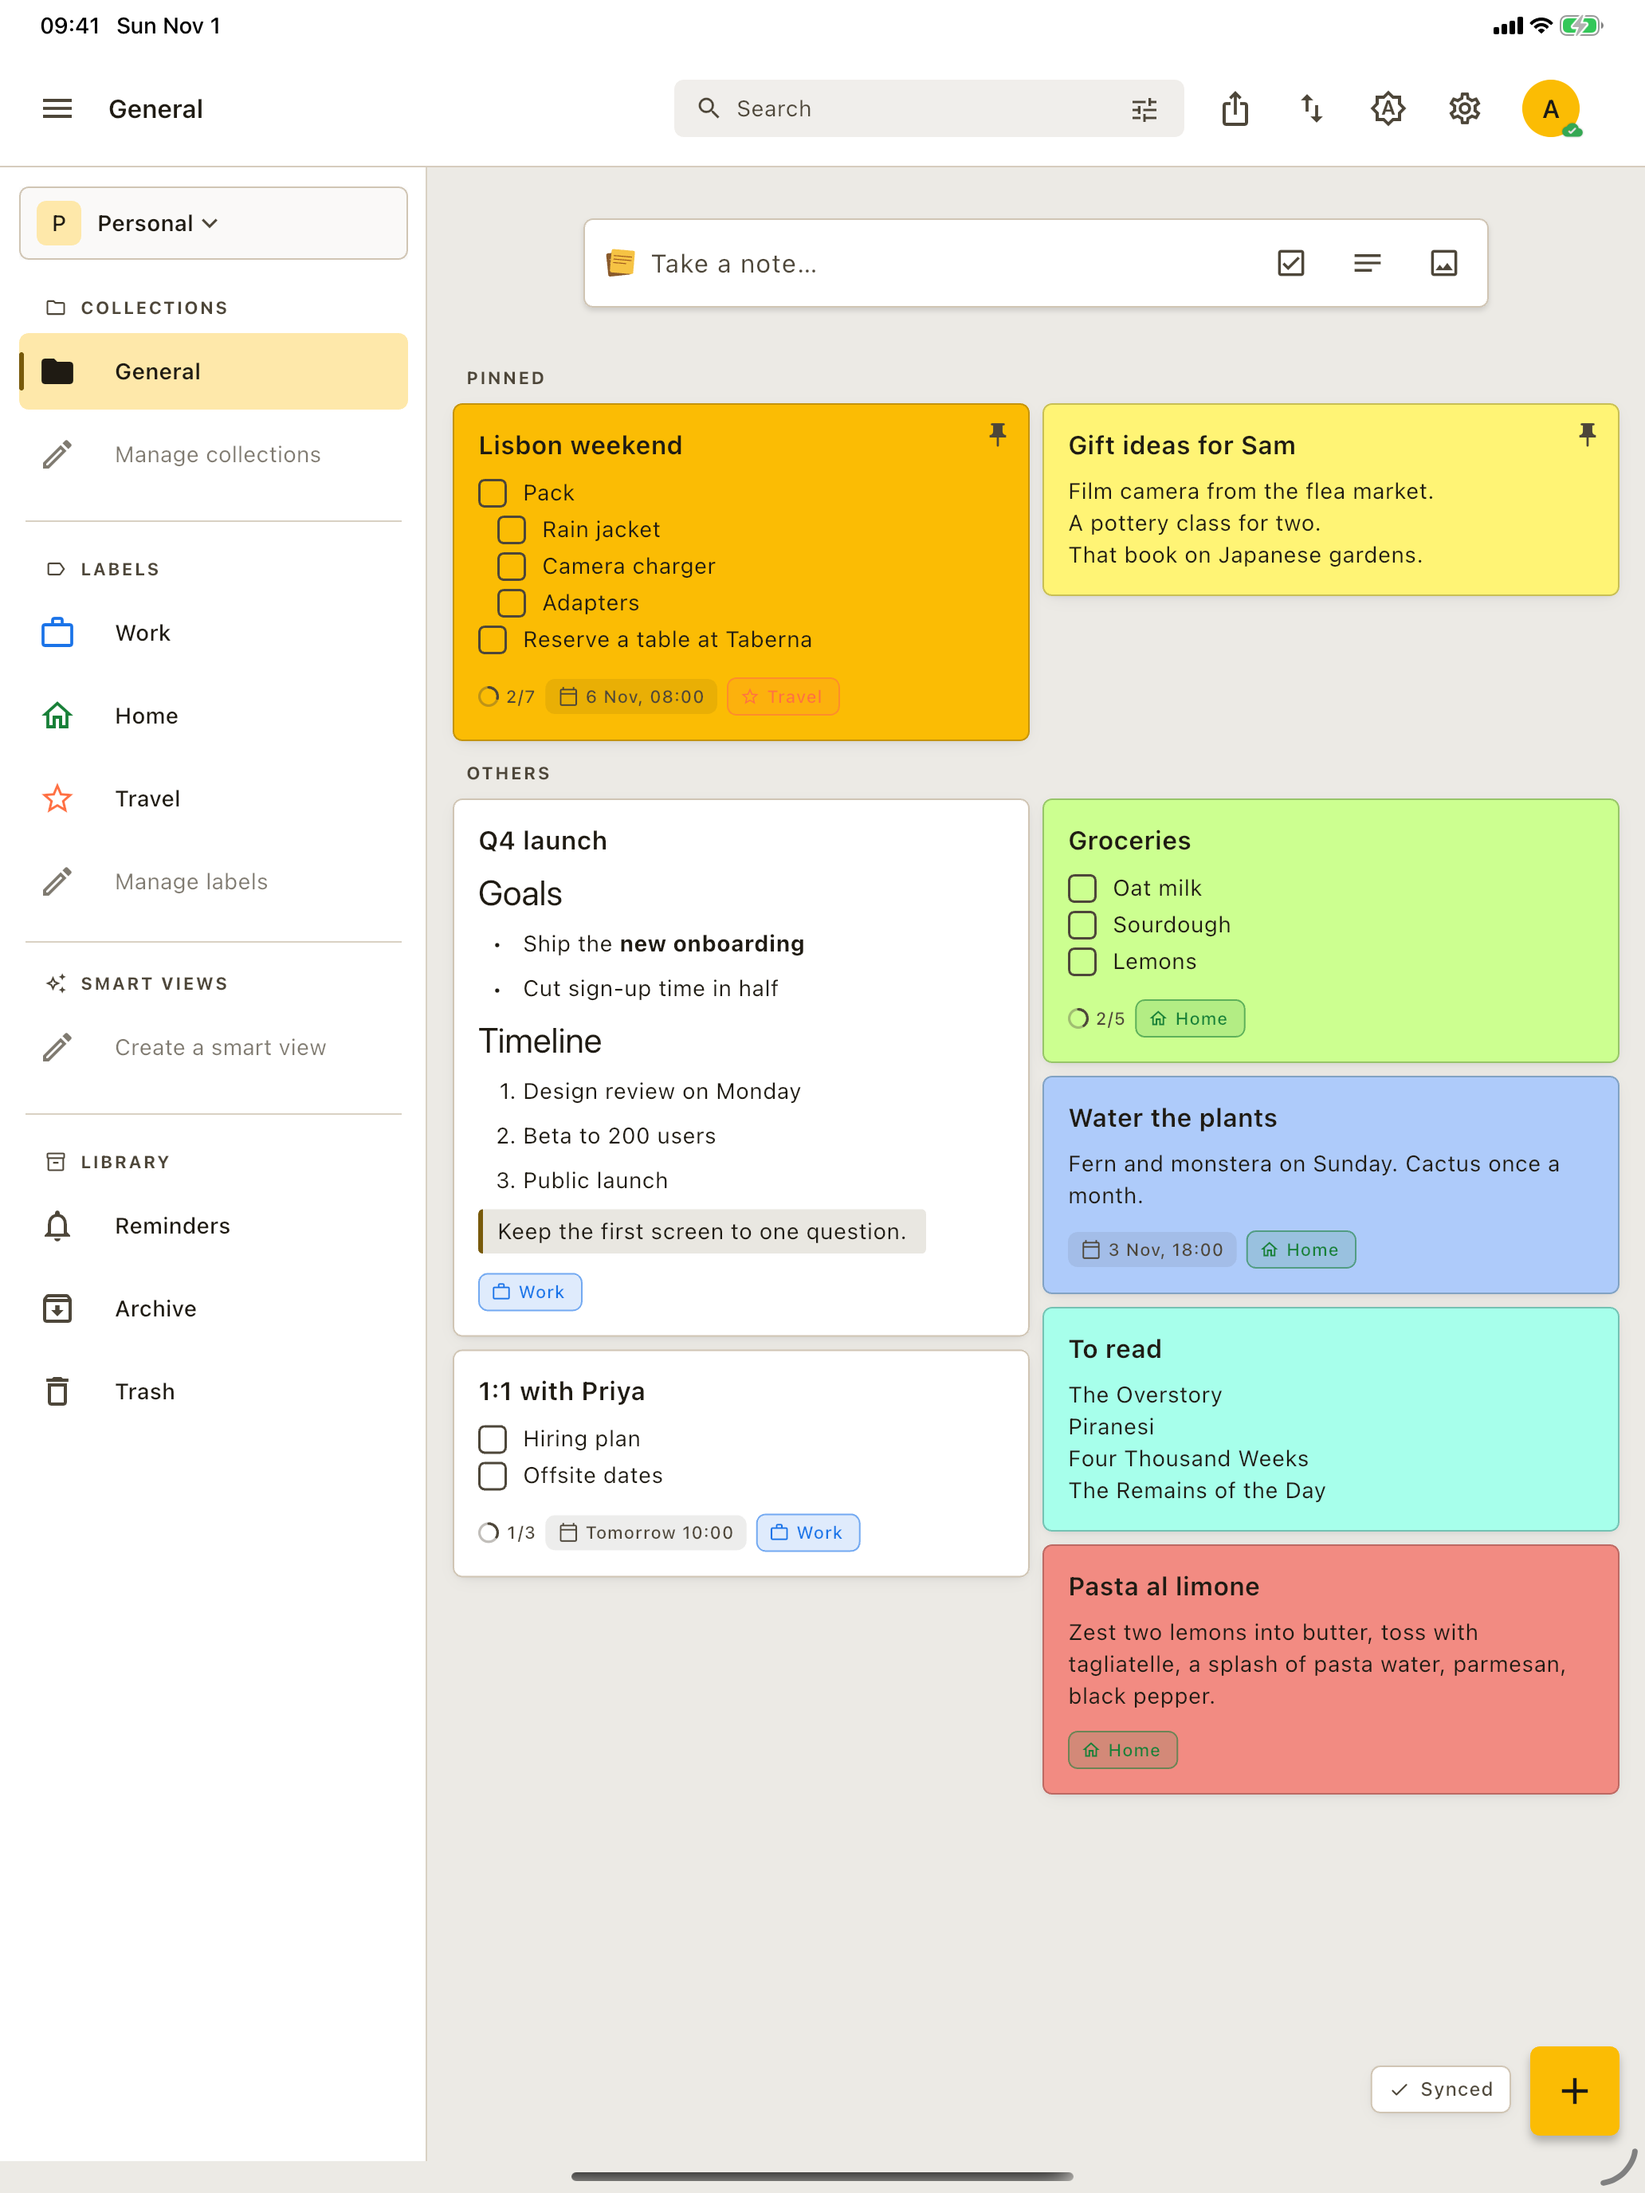
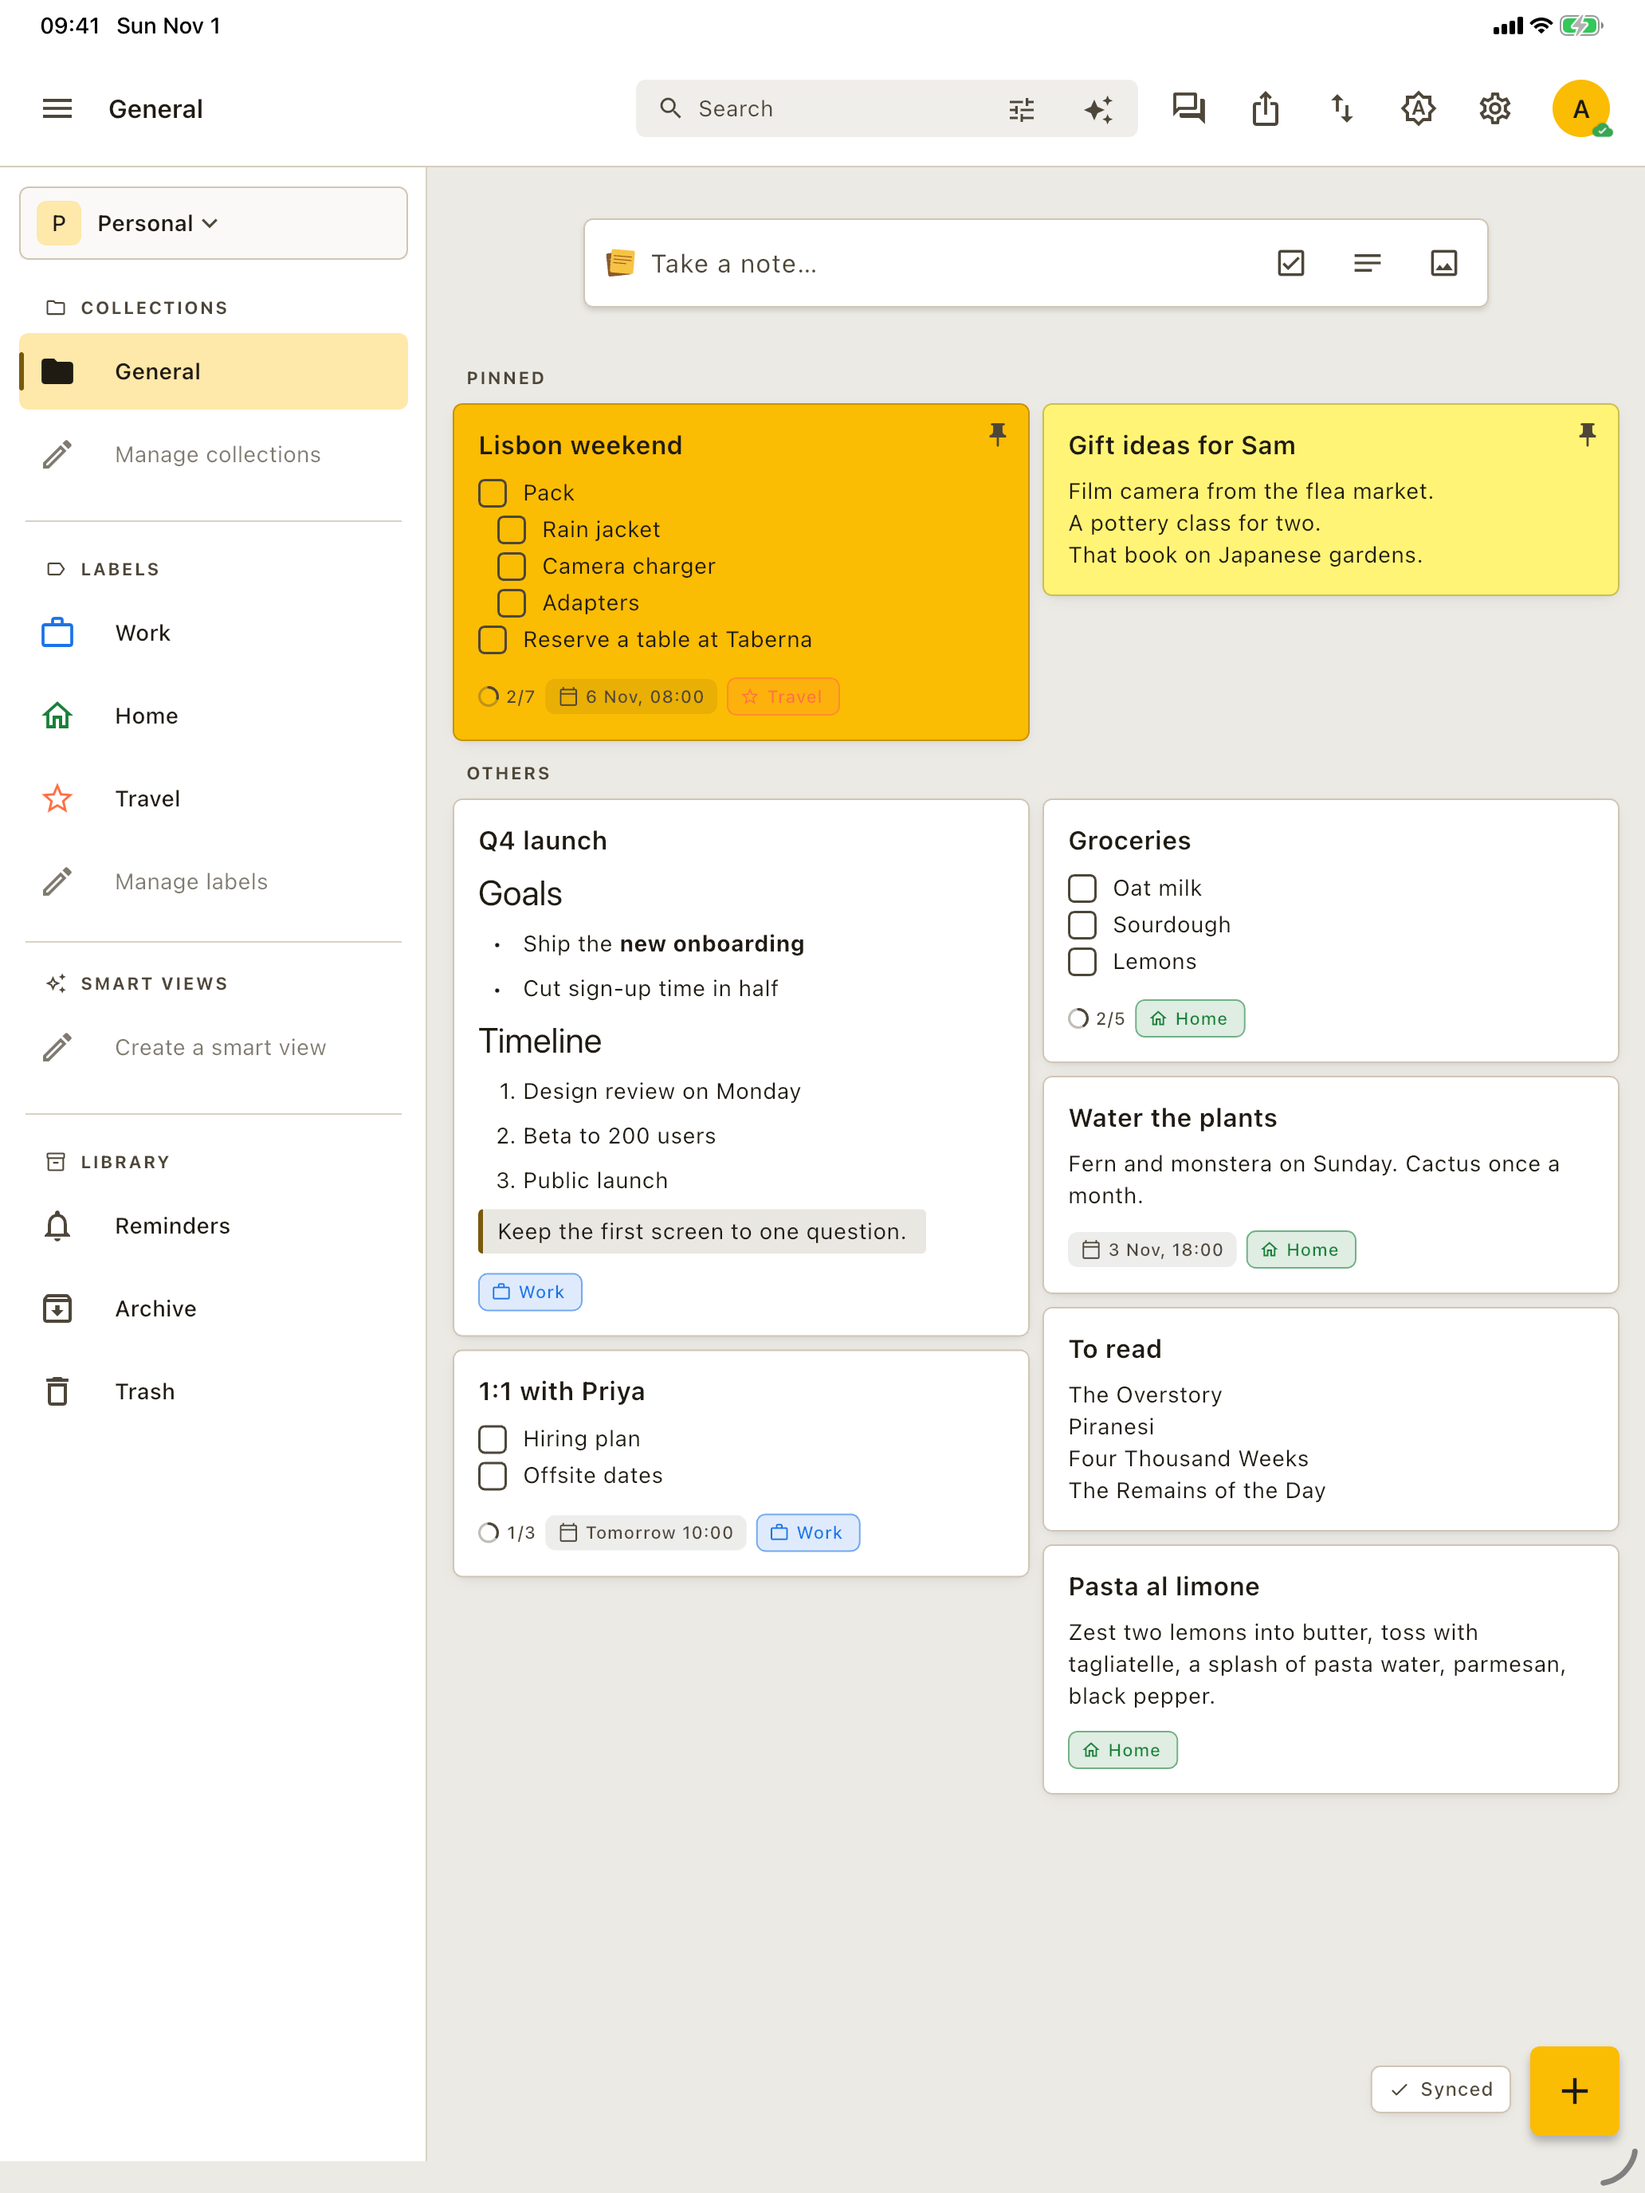
docs: answer App Review and refresh the iOS screenshots
Add the Guideline 2.1 reply to the App Store notes and replace the
store screenshots, adding marketing images.

diff --git a/app/ios/AppStore.md b/app/ios/AppStore.md
@@ -86,19 +86,76 @@ Copyright: `2026 Lucas Genoud`
 
 Notes for the reviewer:
 
+Answers Guideline 2.1 (Information Needed). Attach the screen recording to
+the reply, then paste this into the Notes field. Fill in the bracketed
+parts before sending.
+
 ```
-Skippy is a notes app. It connects to https://skippy-notes.com by default;
-no server setup is needed. Sign in with the demo account above, or create
-an account on the sign-in screen.
+1. SCREEN RECORDING
+Attached, recorded on an [iPhone model] running iOS [version]. It shows:
+launching the app, creating an account, creating a text note, a checklist
+and an audio note, setting a reminder, sharing a note with a second
+account, leaving that shared note from the second account, signing out,
+signing in, and deleting the account (Settings > Account > Delete account).
+The app has no paid content or in-app purchases.
 
+2. PURPOSE AND AUDIENCE
+Skippy is a notes app for individuals and small groups (families,
+friends, small teams) who want their notes, checklists and reminders on
+all their devices, including while offline. Every edit is saved on the
+device first and syncs when a connection returns. Notes can be organized
+as a grid, a list or a Kanban board, and shared with people the user
+chooses. The server is open source, so users who want full control of
+their data can run their own instead of the public one.
+
+3. SETUP AND MAIN FEATURES
+No setup is needed: the app connects to the public server
+https://skippy-notes.com by default.
+Demo account: [email] / [password]. It already holds sample notes.
+- Create a note: the bar at the top of the grid (text, checklist,
+  Markdown); the microphone button records an audio note.
+- Reminders: open a note, tap Remind me. Place reminders: Settings >
+  Reminders > Saved places.
+- Views: each collection's settings choose grid, list or board.
+- Sharing: open a note > Share, enter another account's email.
+- Search: the search field in the top bar.
+- Account deletion: Settings > Account > Delete account.
+
+4. EXTERNAL SERVICES
+- Skippy server at skippy-notes.com, operated by the developer: accounts,
+  sync, file storage. Authentication is the app's own email and password;
+  no third-party sign-in.
+- OpenStreetMap: map tiles when picking a place for a location reminder.
+- AI features (labeling, rewriting, chat) are optional, off until a user
+  enters their own OpenAI-compatible provider and key in Settings > AI &
+  search. [Confirm: the public server provides no AI provider itself.]
+- Reminder delivery channels (ntfy, Telegram, email) are optional and
+  only used if the user configures one.
+- Link previews are fetched by the Skippy server from the linked page.
+No payment processors, analytics, advertising or tracking services.
+
+5. REGIONS
+The app works the same in every region. Content and features do not vary
+by country.
+
+6. REGULATED INDUSTRY / THIRD-PARTY MATERIAL
+Not applicable. Skippy is not in a regulated industry and contains no
+third-party content; users only see notes they wrote or that someone
+shared with them.
+
+PERMISSIONS
 Location (Always): used only for reminders the user attaches to a saved
-place (Settings > Reminders > Saved places). The app registers geofences for those
-places so an arrival or departure reminder fires while the app is closed.
-No location is collected otherwise.
+place. The app registers geofences for those places so an arrival or
+departure reminder fires while the app is closed. No location is
+collected otherwise. Microphone: audio notes. Camera and photos:
+attaching images.
 
-Microphone: audio notes. Camera and photos: attaching images.
-
-Account deletion: Settings > Account > Delete account.
+USER CONTENT
+There is no public feed, directory or discovery. A note is visible only
+to its author and to people the author adds by email address. Anyone who
+receives a shared note or workspace can leave it at any time (Share >
+Leave note, or Workspace settings > Leave workspace), which removes it
+from their account.
 ```
 
 ## App Privacy
@@ -123,9 +180,15 @@ app only uses HTTPS.
 
 ## Screenshots
 
-In `screenshots/`, captured from the simulators against a local server with
-a demo account. Upload in this order:
+In `screenshots/`, light mode, captured from the simulators with a demo
+account. Upload in this order:
 
-- iPhone 6.9" (1320 x 2868): `iphone-1-grid.png`, `iphone-2-dark.png`
-- iPad 13" (2064 x 2752): `ipad-1-grid.png`, `ipad-2-board.png`,
-  `ipad-3-dark.png`
+- iPhone with Dynamic Island, medium display (1206 x 2622):
+  `iphone-1-grid.png`, `iphone-2-checklist.png`, `iphone-3-chat.png`
+- iPad 13" (2064 x 2752): `ipad-1-grid.png`, `ipad-2-editor.png`,
+  `ipad-3-board.png`
+
+Header and Search Results (optional), in `screenshots/marketing/`:
+
+- Header (3840 x 1646): `header.png`
+- Search Results (1920 x 1280): `search-results.png`
